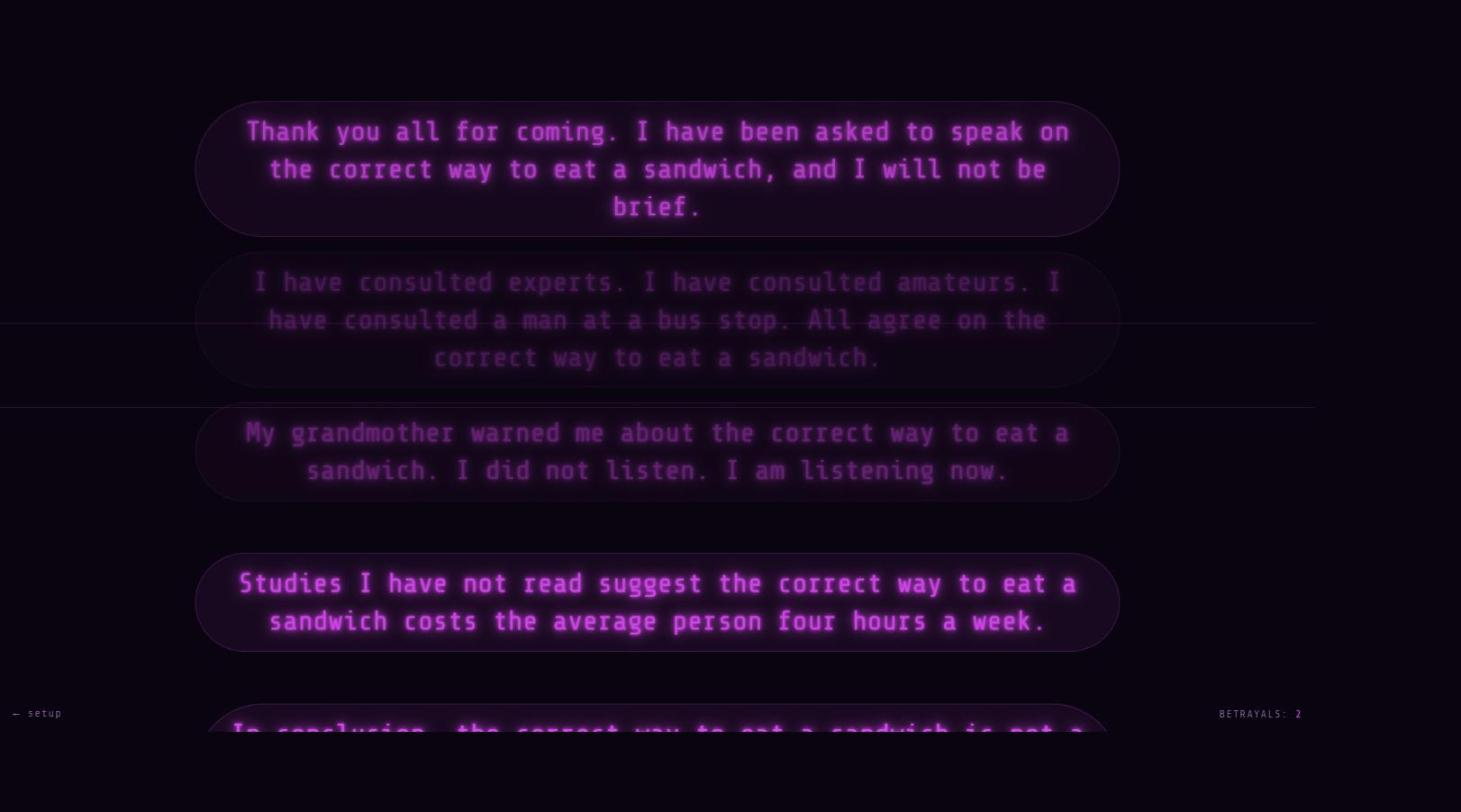
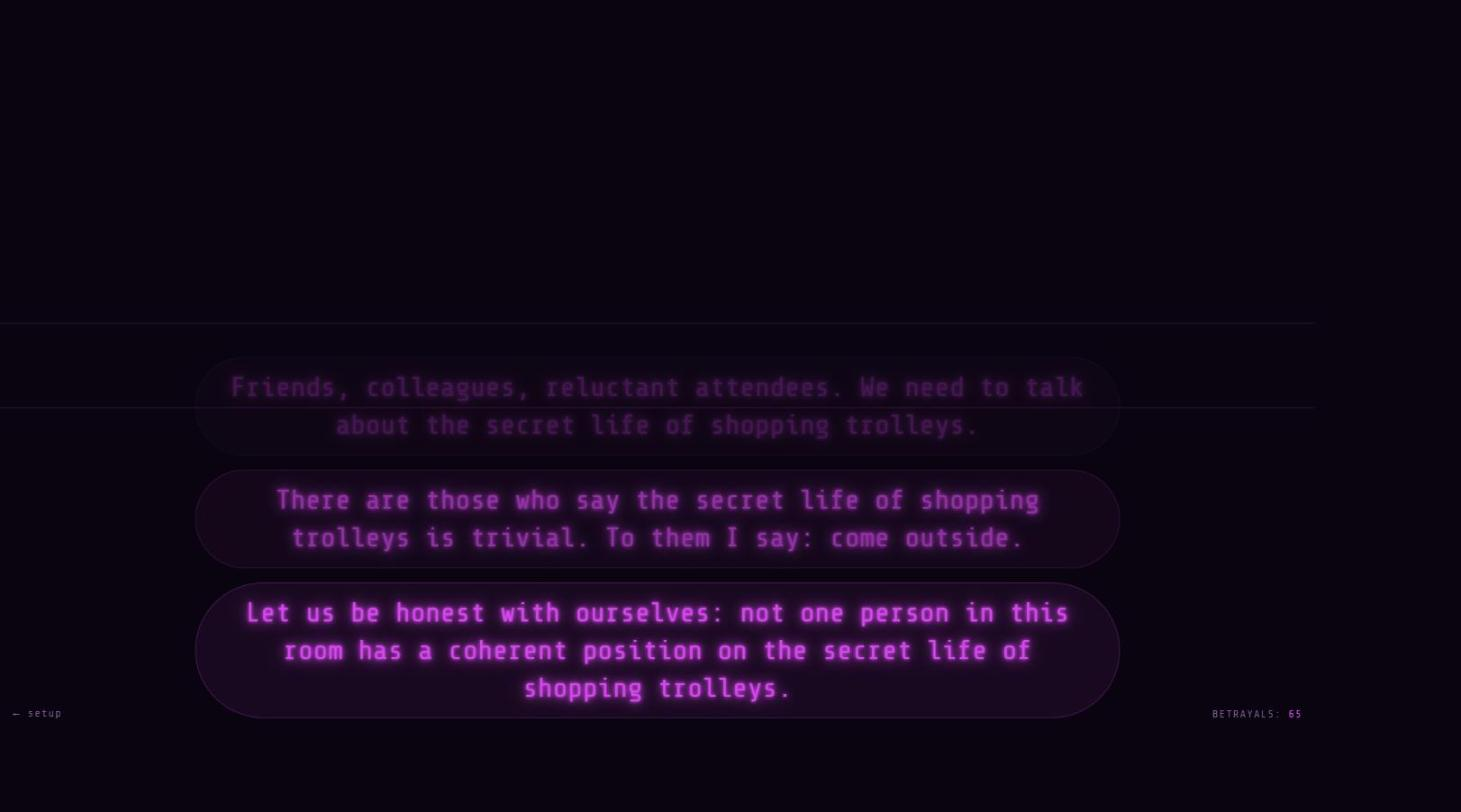
Start the script mid-screen, make static a full signal loss
Two changes from a read-through.

The script used to begin at 90% of viewport height and rise from below
the fold, handing the reader roughly seven unhindered seconds before the
first line even reached the dimming zone. START_Y_RATIO is now 0.5, so
line one sits in the reading zone, dim, from the first frame after the
countdown.

The grain is now total television signal loss rather than a translucent
veil: fully opaque noise across the full black-to-white range, so nothing
shows through for the length of the burst. Two things had to change
alongside the opacity - the luminance floor that made the field
uniformly mid-bright, and the stage glitch filter's brightness(1.35),
which together washed the first attempt out to flat pastel pink. Tiles
also grew to 128px x6 and now cycle every other frame, since visible
repetition matters far more once every pixel is opaque. 38ms at load,
0.25 MB resident.

Tests updated: grain coverage is now asserted total rather than banded,
with dynamic-range checks (near-black and near-white pixels present,
mean mid-range) so it cannot regress to either a pastel wash or a dark
mass. The alpha-variance assertion was replaced with an
adjacent-pixel-delta check, since alpha is uniform by design now and a
smooth gradient would otherwise pass.

Changed region(s): [[0.154, 0.3387, 0.7392, 0.9236], [0.154, 0.1232, 0.7392, 0.2771], [0.8316, 0.8621, 0.8932, 0.8929]]

diff --git a/teleprompter.js b/teleprompter.js
@@ -31,24 +31,36 @@
      everything they had left to read. */
   var MAX_BURST_TRAVEL_RATIO = 0.6;
 
+  /* Where the first line sits when the countdown ends, as a fraction of
+     viewport height. 0.5 drops it straight into the reading zone, so
+     there is no free run-up: at 0.9 the script rose from below the fold
+     and handed the reader several unhindered seconds before the dimming
+     even started. */
+  var START_Y_RATIO = 0.5;
+
   /* ---------- canvas grain ---------- */
 
   /* A handful of small noise tiles, rendered once at startup and then
      cycled during a glitch. Repeating one tile across the viewport is
      vastly cheaper than painting every screen pixel per frame, and
      swapping which tile is showing hides the fact that it repeats. */
-  var NOISE_TILE_SIZE = 96;
-  var NOISE_TILE_COUNT = 5;
+  var NOISE_TILE_SIZE = 128;
+  var NOISE_TILE_COUNT = 6;
 
-  /* Slight magenta bias so the grain belongs to the same palette as
-     the glow rather than reading as neutral TV snow. */
-  var NOISE_GREEN_BIAS = 0.62;
+  /* Only a faint magenta cast. Pushed near neutral on purpose: a heavy
+     tint reads as a coloured veil, whereas real signal-loss snow is
+     close to grey. */
+  var NOISE_GREEN_BIAS = 0.86;
 
-  /* Fraction of pixels left fully transparent. Kept low: the grain has
-     to physically cover glyphs to interfere with reading. A sparse,
-     screen-blended version looked like static but could not obscure
-     anything, because screen blending only ever lightens. */
-  var NOISE_SPARSITY = 0.3;
+  /* Fraction of pixels left fully transparent. Zero: this is meant to
+     be total signal loss, so the tile is fully opaque and the text
+     behind it disappears completely for the length of the glitch. */
+  var NOISE_SPARSITY = 0;
+
+  /* Full black-to-white range. Clamping the floor up made the field
+     uniformly mid-bright, which the stage's glitch filter then pushed
+     into a flat pastel wash. Real snow needs its blacks. */
+  var NOISE_MIN_LUMA = 0;
 
   /* Returns an array of data-URI strings, or an empty array where
      canvas is unavailable (jsdom, very old browsers), in which case the
@@ -74,14 +86,12 @@
         var img = ctx.createImageData(px, px);
         var data = img.data;
         for (var i = 0; i < data.length; i += 4) {
-          var v = (random() * 255) | 0;
+          var v = NOISE_MIN_LUMA + ((random() * (255 - NOISE_MIN_LUMA)) | 0);
           data[i] = v;
           data[i + 1] = (v * NOISE_GREEN_BIAS) | 0;
           data[i + 2] = v;
-          /* Mostly opaque, so the tile lands ON TOP of the glyphs and
-             genuinely breaks them up, with a minority punched out to
-             keep it reading as noise rather than a solid panel. */
-          data[i + 3] = random() < NOISE_SPARSITY ? 0 : 100 + ((random() * 130) | 0);
+          /* Fully opaque: total signal loss, nothing shows through. */
+          data[i + 3] = random() < NOISE_SPARSITY ? 0 : 255;
         }
         ctx.putImageData(img, 0, 0);
         tiles.push(canvas.toDataURL('image/png'));
@@ -345,7 +355,7 @@
     var totalHeight = cursor;
 
     var offset = 0;
-    var startY = viewH * 0.9; /* first line begins just below the fold */
+    var startY = viewH * START_Y_RATIO;
     var lastTs = null;
     var finished = false;
 
@@ -400,7 +410,7 @@
 
       if (!noiseTiles.length) { return; }
       jitterTick++;
-      if (jitterTick % 3 === 0) {
+      if (jitterTick % 2 === 0) {
         tileCursor = (tileCursor + 1 + Math.floor(Math.random() * (noiseTiles.length - 1))) %
           noiseTiles.length;
         staticEl.style.backgroundImage = 'url(' + noiseTiles[tileCursor] + ')';

diff --git a/test/prompter.test.js b/test/prompter.test.js
@@ -599,7 +599,7 @@ check('weighted picker favours the disorienting effects', async () => {
   dom.window.close();
 });
 
-check('grain is opaque enough to obscure text, not just tint it', async () => {
+check('grain is full signal-loss static, not a translucent veil', async () => {
   const dom = await prompterPage(makeStorage({ 'prompter-script': 'x' }));
   const api = dom.window.Prompter;
 
@@ -623,17 +623,30 @@ check('grain is opaque enough to obscure text, not just tint it', async () => {
     total++;
     if (data[i + 3] > 120) { opaque++; }
   }
-  /* A band, not a floor. Too transparent and the grain only tints the
-     glow without hindering reading; too opaque and the screen goes
-     fully black, which erases the text instead of fighting it. Both
-     failure modes have happened in this build. */
+  /* Deliberately total. The overlay is meant to read as a television
+     losing signal, so nothing shows through for the length of the
+     glitch - an earlier translucent version merely tinted the glow. */
   const coverage = opaque / total;
-  assert(coverage > 0.45,
-    'grain must be opaque enough to break up glyphs, got ' +
-    (coverage * 100).toFixed(1) + '%');
-  assert(coverage < 0.8,
-    'grain must not be so opaque it blacks the screen out, got ' +
-    (coverage * 100).toFixed(1) + '%');
+  assertEqual(coverage, 1, 'every grain pixel should be fully opaque');
+
+  /* Full dynamic range, centred. Television snow is high-contrast
+     black-to-white; clamping the floor up produced a uniformly
+     mid-bright field that the glitch filter washed out to pastel. */
+  let lumaSum = 0;
+  let darkest = 255;
+  let brightest = 0;
+  let n = 0;
+  for (let i = 0; i < data.length; i += 4) {
+    lumaSum += data[i];
+    darkest = Math.min(darkest, data[i]);
+    brightest = Math.max(brightest, data[i]);
+    n++;
+  }
+  const meanLuma = lumaSum / n;
+  assert(meanLuma > 100 && meanLuma < 165,
+    'snow should sit mid-range, mean luminance was ' + meanLuma.toFixed(0));
+  assert(darkest < 30, 'snow needs near-black pixels, darkest was ' + darkest);
+  assert(brightest > 225, 'snow needs near-white pixels, brightest was ' + brightest);
   dom.window.close();
 });
 
@@ -712,13 +725,21 @@ check('noise pixels are actually randomized, not a flat fill', async () => {
 
   const data = captured.data;
   const reds = new Set();
-  const alphas = new Set();
+  let neighbourDiff = 0;
+  let prev = null;
   for (let i = 0; i < data.length; i += 4) {
     reds.add(data[i]);
-    alphas.add(data[i + 3]);
+    if (prev !== null) { neighbourDiff += Math.abs(data[i] - prev); }
+    prev = data[i];
   }
-  assert(reds.size > 20, 'red channel should take many distinct values, got ' + reds.size);
-  assert(alphas.size > 20, 'alpha should vary to produce speckle, got ' + alphas.size);
+  assert(reds.size > 20, 'luminance should take many distinct values, got ' + reds.size);
+
+  /* Adjacent pixels must differ sharply. A smooth gradient would also
+     produce many distinct values while looking nothing like snow. */
+  const avgNeighbourDiff = neighbourDiff / (data.length / 4 - 1);
+  assert(avgNeighbourDiff > 30,
+    'adjacent pixels should differ sharply to read as snow, average delta ' +
+    avgNeighbourDiff.toFixed(1));
   dom.window.close();
 });
 

diff --git a/styles.css b/styles.css
@@ -238,7 +238,7 @@ body.prompter { overflow: hidden; height: 100vh; }
      grain sit on top of the text and actually break it up. */
 }
 
-#static-overlay.active { opacity: 0.6; }
+#static-overlay.active { opacity: 1; }
 
 #blank-overlay {
   position: absolute;
@@ -272,7 +272,7 @@ body.prompter { overflow: hidden; height: 100vh; }
 }
 
 #stage.glitching {
-  filter: contrast(1.9) brightness(1.35) saturate(1.4);
+  filter: contrast(1.45) brightness(1.05) saturate(1.15);
   animation: stage-shake 110ms steps(2, end) infinite;
 }
 

diff --git a/README.md b/README.md
@@ -92,19 +92,18 @@ churn through block-shade glyphs, so the topic resolves out of visible corruptio
 than simply appearing.*
 
 ![The inverted brightness rule](screenshots/4-inverted-brightness.jpg)
-*The core mechanic, and the whole joke. The reading zone sits between the two faint
-horizontal rules, and the line inside it is rendered at 0.26 opacity while the lines above
-and below climb to 1.0. Measured at this exact frame: 0.26 at 40px from the zone centre,
-0.46 at 102px, 0.79 at 203px, 1.0 at 449px. Backwards from every real teleprompter, on
-purpose.*
+*The core mechanic, and the whole joke, shown at the very first frame after the countdown.
+The reading zone sits between the two faint horizontal rules, and the script starts with
+its first line already inside it, dim and hard to focus on, while the lines below it glow
+brightly. There is no gentle run-up from the bottom of the screen: you are behind from the
+moment it begins. Backwards from every real teleprompter, on purpose.*
 
 ![Glitch firing](screenshots/5-static-glitch.jpg)
-*A static glitch held open. The grain is real pixel noise, composited over the text rather
-than screen-blended, so it genuinely breaks the glyphs up instead of merely tinting them:
-the lines in the reading zone are close to illegible here. Five 96px tiles are rendered to
-an offscreen canvas once at startup and then cycled and re-offset per frame, costing about
-30ms at load and no pixel work while running. The betrayal counter in the bottom right
-persists across sessions.*
+*A static glitch held open, and yes, that is the whole screen. The grain is full
+signal-loss television snow: opaque pixel noise across the full black-to-white range,
+composited over the text so nothing shows through for the length of the burst. Six 128px
+tiles are rendered to an offscreen canvas once at startup, then cycled every other frame
+and re-offset, costing about 38ms at load and no pixel work while running.*
 
 ![Empty state](screenshots/6-empty-state.jpg)
 *With no script saved, the prompter explains itself and offers a way back instead of
